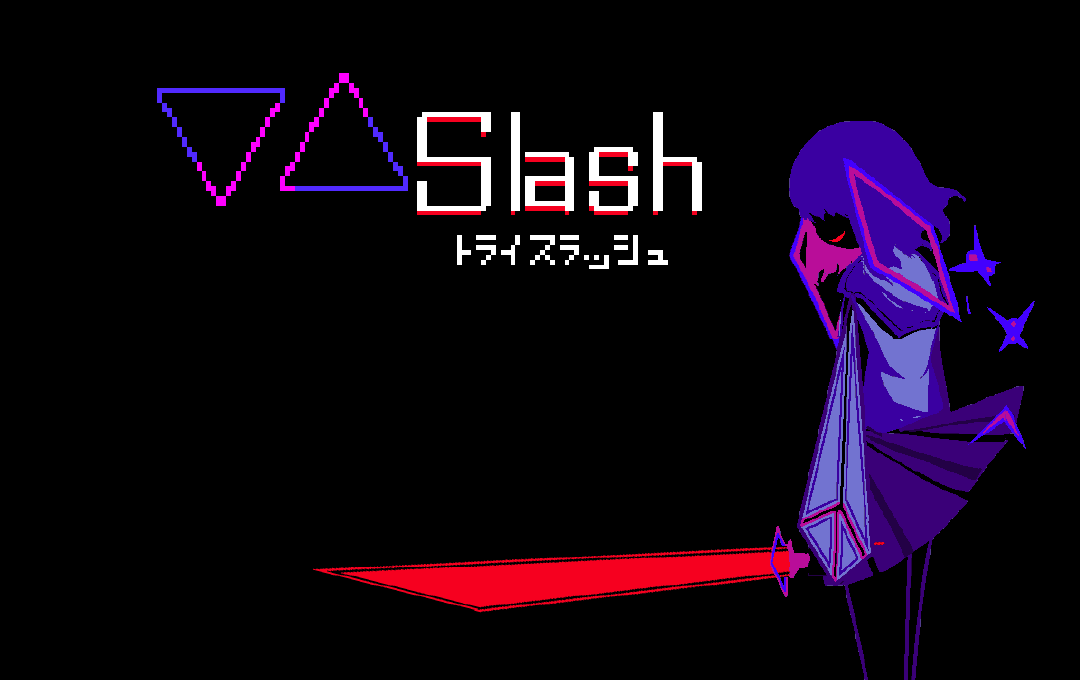
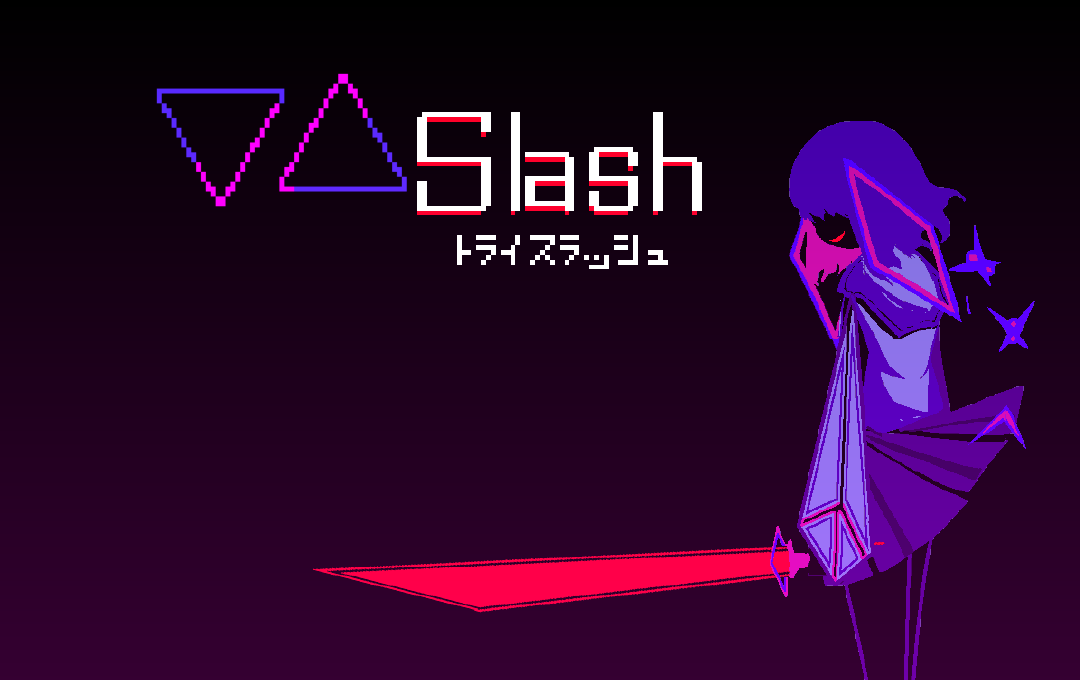
changed title and menu. changed time ui too

diff --git a/DX21_05_Init/Game.cpp b/DX21_05_Init/Game.cpp
@@ -400,10 +400,10 @@ void DrawScoreUI(void)
     if (!g_uiNumberTexture) return;
 
     // Position on top left, below the timer
-    float scoreX = -0.77f;
-    float scoreY = 0.61f;
+    float scoreX = -0.768f;
+    float scoreY = 0.66f;
     float scoreDigitWidth = 0.03f;
-    float scoreDigitHeight = 0.06f;
+    float scoreDigitHeight = 0.07f;
 
     SetColor(1.0f, 1.0f, 1.0f, 1.0f);
 
@@ -1434,28 +1434,29 @@ void MouseIndicatorSystem::Render(float cameraX, float cameraY) {
 
     
     float uiX = -1.0f;
-    float uiY = 0.35f;
+    float uiY = 0.25f;
     float uiWidth = 0.5f;
-    float uiHeight = 0.7f;
+    float uiHeight = 1.0f;
     RenderImage(uiX, uiY, uiWidth, uiHeight, g_uiNumberTexture, 0, 1, 1);
 
     // for the timer counting
-    float timerX = -0.77f;  // position x axis
-    float timerY = 0.74f;   // position y axis
+    float timerX = -0.768f;  // position x axis
+    float timerY = 0.78f;   // position y axis
     float timerDigitWidth = 0.03f;  // width
-    float timerDigitHeight = 0.06f; // height
+    float timerDigitHeight = 0.07f; // height
 
     // for the minutes
     int minuteTens = g_gameMinutes / 10;
     int minuteOnes = g_gameMinutes % 10;
     RenderNumber(minuteTens, timerX, timerY, timerDigitWidth, timerDigitHeight, pTextureNum);
-    RenderNumber(minuteOnes, timerX + timerDigitWidth * 1.2f, timerY, timerDigitWidth, timerDigitHeight, pTextureNum);
+    RenderNumber(minuteOnes, timerX + timerDigitWidth * 0.8f, timerY, timerDigitWidth, timerDigitHeight, pTextureNum);
 
     // for the seconds
     int secondTens = g_gameSeconds / 10;
     int secondOnes = g_gameSeconds % 10;
-    RenderNumber(secondTens, timerX + timerDigitWidth * 2.8f, timerY, timerDigitWidth, timerDigitHeight, pTextureNum);
-    RenderNumber(secondOnes, timerX + timerDigitWidth * 4.0f, timerY, timerDigitWidth, timerDigitHeight, pTextureNum);
+    float secondsStartX = timerX + timerDigitWidth * 2.2f;
+    RenderNumber(secondTens, secondsStartX, timerY, timerDigitWidth, timerDigitHeight, pTextureNum);
+    RenderNumber(secondOnes, secondsStartX + timerDigitWidth * 0.8f, timerY, timerDigitWidth, timerDigitHeight, pTextureNum);
 
     //SetColor(1.0f, 1.0f, 1.0f, 1.0f); 
 

diff --git a/DX21_05_Init/TitleScene.cpp b/DX21_05_Init/TitleScene.cpp
@@ -16,12 +16,17 @@ TitleScene::TitleScene(SceneManager* manager)
 bool TitleScene::Init() 
 {
 	ShowCursor(TRUE);
-    LoadTexture(g_pDevice, "asset/UI/title/cut_sheet.png", &tex);
+    LoadTexture(g_pDevice, "asset/UI/title/UI_title_background_animation_v8.png", &tex);
+    LoadTexture(g_pDevice, "asset/UI/title/padding_animation.png", &g_paddingTitleAnim);
 
     InitGameWorld();
-    m_titleAnim.AddClip("titleScene",0,8,1,9, 0.06f, false, tex); // 0.06s per frame. lower number is faster
+    m_titleAnim.AddClip("titleScene",0,13,1,14, 0.08f, false, tex); // 0.06s per frame. lower number is faster
 	m_titleAnim.SetClip("titleScene");
 	m_titleAnim.Pause(); // start paused, will play when mouse is clicked
+
+   
+    paddingTitleAnim.AddClip("padddingAnimation", 0, 13, 1, 14, 0.09f, true, g_paddingTitleAnim);
+    paddingTitleAnim.SetClip("paddingAnimation");
 
     uiButtons.clear();
     g_mouseIndicator.ShowMouseIndicator(false);
@@ -41,6 +46,7 @@ void TitleScene::Update(float deltaTime)
     }
 
     m_titleAnim.Update(deltaTime);
+    paddingTitleAnim.Update(deltaTime);
 
     // switch as soon as the animation finishes
     if (m_playing && m_titleAnim.IsFinished()) 
@@ -63,6 +69,15 @@ void TitleScene::Draw()
         SetColor(1.0f, 1.0f, 1.0f, 1.0f);
         RenderImage(-1.0f, -1.0f, 2.0f, 2.0f, tex, m_titleAnim.GetCurrentFrame(), m_titleAnim.GetSplitX(), m_titleAnim.GetSplitY());
     }
+
+    ID3D11ShaderResourceView* paddingTex = paddingTitleAnim.GetCurrentClipTexture();
+    if (paddingTex) {
+        SetColor(1.0f, 1.0f, 1.0f, 1.0f);
+        RenderImage(-1.0f, -1.0f, 2.0f, 2.0f, paddingTex,
+           paddingTitleAnim.GetCurrentFrame(),
+           paddingTitleAnim.GetSplitX(),
+           paddingTitleAnim.GetSplitY());
+    }
 }
 
 //it erases the objects in title
@@ -74,8 +89,15 @@ void TitleScene::Uninit()
         tex = nullptr;
     }
 
+    if (g_paddingTitleAnim)
+    {
+        g_paddingTitleAnim->Release();
+        g_paddingTitleAnim = nullptr;
+    }
+
     // clean up the texture for the animation
     m_titleAnim.ClearClips();
+    paddingTitleAnim.ClearClips();
 
     // clean up the buttons
     uiButtons.clear();

diff --git a/DX21_05_Init/Menu.cpp b/DX21_05_Init/Menu.cpp
@@ -13,6 +13,8 @@ bool MenuScene::Init()
 	Audio::PlayBGM(BackgroundMusic::MAIN_MENU, true);
 
 	LoadTexture(g_pDevice, "asset/UI/menu/background.png", &backgroundTexture);
+
+	LoadTexture(g_pDevice, "asset/UI/title/padding_animation.png", &g_paddingTitleAnim);
 	
 	LoadTexture(g_pDevice, "asset/UI/menu/start_normal.png", &startTexture);
 	LoadTexture(g_pDevice, "asset/UI/menu/start_hover.png", &startHoverTexture);
@@ -37,6 +39,8 @@ bool MenuScene::Init()
 	uiButtons.back().SetHitboxOffset(-0.06f);
 
 
+	paddingTitleAnim.AddClip("padddingAnimation", 0, 13, 1, 14, 0.09f, true, g_paddingTitleAnim);
+	paddingTitleAnim.SetClip("paddingAnimation");
 
 	//uiButtons.clear();
 	g_mouseIndicator.ShowMouseIndicator(false);
@@ -63,6 +67,8 @@ void MenuScene::Update(float deltaTime)
 			return;
 		}
 	}
+
+	paddingTitleAnim.Update(deltaTime);
 }
 
 void MenuScene::Draw()
@@ -71,6 +77,15 @@ void MenuScene::Draw()
 		// Always set a color before drawing so the texture is visible
 		SetColor(1.0f, 1.0f, 1.0f, 1.0f);
 		RenderImage(-1.0f, -1.0f, 2.0f, 2.0f, backgroundTexture, 0, 1, 1);
+	}
+
+	ID3D11ShaderResourceView* paddingTex = paddingTitleAnim.GetCurrentClipTexture();
+	if (paddingTex) {
+		SetColor(1.0f, 1.0f, 1.0f, 1.0f);
+		RenderImage(-1.0f, -1.0f, 2.0f, 2.0f, paddingTex,
+			paddingTitleAnim.GetCurrentFrame(),
+			paddingTitleAnim.GetSplitX(),
+			paddingTitleAnim.GetSplitY());
 	}
 
 	// for the buttons
@@ -85,6 +100,12 @@ void MenuScene::Uninit()
 	{
 		backgroundTexture->Release();
 		backgroundTexture = nullptr;
+	}
+
+	if (g_paddingTitleAnim)
+	{
+		g_paddingTitleAnim->Release();
+		g_paddingTitleAnim = nullptr;
 	}
 
 	if (startTexture) { 
@@ -118,6 +139,8 @@ void MenuScene::Uninit()
 		quitHoverTexture->Release();
 		quitHoverTexture = nullptr;
 	}
+
+	paddingTitleAnim.ClearClips();
 
 	uiButtons.clear();
 	g_mouseIndicator.Cleanup();

diff --git a/DX21_05_Init/TitleScene.h b/DX21_05_Init/TitleScene.h
@@ -28,7 +28,6 @@ private:
     Animation m_titleAnim;
     bool m_playing = false;
 
-
     std::vector<UIButton> uiButtons;
 
 public:
@@ -40,5 +39,6 @@ public:
     void Uninit() override;
 };
 
+extern Animation paddingTitleAnim;
 extern InputSystem g_inputSystem;   // use the global input system
 extern ID3D11Device* g_pDevice;     // device for texture loading

diff --git a/DX21_05_Init/Globals.cpp b/DX21_05_Init/Globals.cpp
@@ -65,6 +65,8 @@ GameTimer g_gameTimer;
 GameState g_gameState = STATE_PLAYING;
 
 ID3D11ShaderResourceView* g_pauseTexture = nullptr; // added for pause overlay
+ID3D11ShaderResourceView* g_paddingTitleAnim = nullptr; // added for pause overlay
+Animation paddingTitleAnim;
 
  float camera_Smoothness = 0.02f;//0.02f
  float camera_LookAhead = 0.6f;//0.6f

diff --git a/DX21_05_Init/Game.h b/DX21_05_Init/Game.h
@@ -421,6 +421,7 @@ extern int g_gameSeconds;
 
 // added november 27th for the pause 
 extern ID3D11ShaderResourceView* g_pauseTexture;
+extern ID3D11ShaderResourceView* g_paddingTitleAnim;
 
 // Game initialization
 void InitGameWorld();

diff --git a/DX21_05_Init/Menu.h b/DX21_05_Init/Menu.h
@@ -34,6 +34,7 @@ public:
     void Uninit() override;
 };
 
+extern Animation paddingTitleAnim;
 extern InputSystem g_inputSystem;   // use the global input system
 extern ID3D11Device* g_pDevice;     // device for texture loading
 
